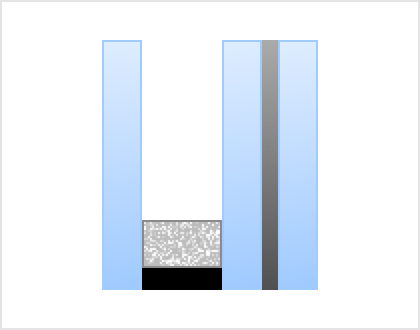
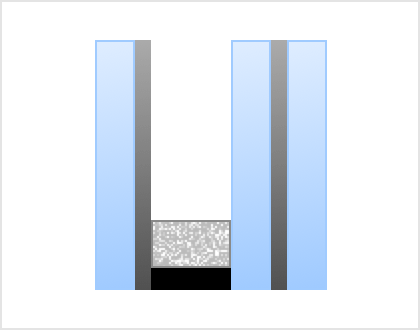
updated igu image to reflect specification

diff --git a/changes.md b/changes.md
@@ -14,6 +14,10 @@ related site: [https://q-windows.sg/](https://q-windows.sg/)
 
 # Changelog
 
+**2019-03-11**
+
+- Updated IGU image to reflect specification
+
 **2019-01-31**
 
 - updated projects from source, fixed some images (jpg,jpeg)
